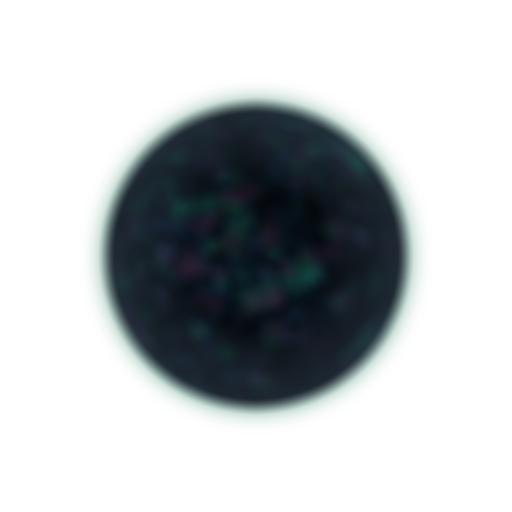
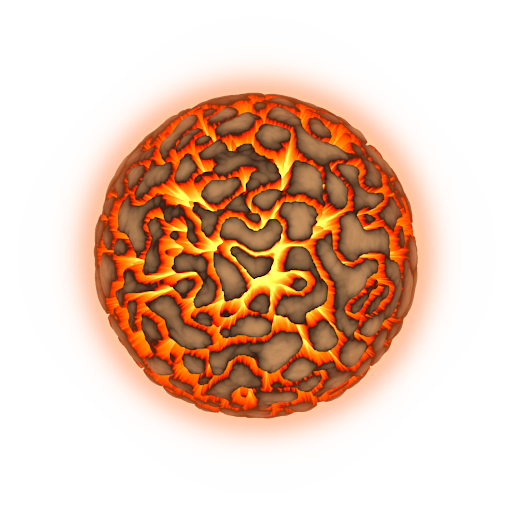
added many new planets

diff --git a/src/swift2d/graphics/PostProcessor.cpp b/src/swift2d/graphics/PostProcessor.cpp
@@ -49,7 +49,7 @@ PostProcessor::PostProcessor(RenderContext const& ctx)
 
       void main(void) {
         vec3 c = get_diffuse();
-        fragColor = vec4(get_glow() * max(max(c.r, c.g), c.b), 0.0, 0.0, 1.0);
+        fragColor = vec4(get_light_info().b * max(max(c.r, c.g), c.b), 0.0, 0.0, 1.0);
       }
     )")
   , glow_shader_(R"(

diff --git a/src/swift2d/graphics/Compositor.cpp b/src/swift2d/graphics/Compositor.cpp
@@ -140,7 +140,7 @@ void Compositor::draw_objects(ConstSerializedScenePtr const& scene, RenderContex
     GLfloat clear1[3] = {0.5f, 0.5f, 0.f};
     ctx.gl.ClearColorBuffer(1, clear1);
 
-    GLfloat clear2[3] = {1.f, 1.f, 1.f};
+    GLfloat clear2[3] = {1.f, 1.f, 0.f};
     ctx.gl.ClearColorBuffer(2, clear2);
 
   } else {

diff --git a/src/swift2d/graphics/Pipeline.cpp b/src/swift2d/graphics/Pipeline.cpp
@@ -51,7 +51,7 @@ void Pipeline::draw(ConstSerializedScenePtr const& scene) {
       compositor_ = nullptr;
     }
 
-    compositor_ = new Compositor(window_->get_context(), 1);
+    compositor_ = new Compositor(window_->get_context(), 2);
   }
 
   window_->get_context().gl.Viewport(old_size_.x(), old_size_.y());
